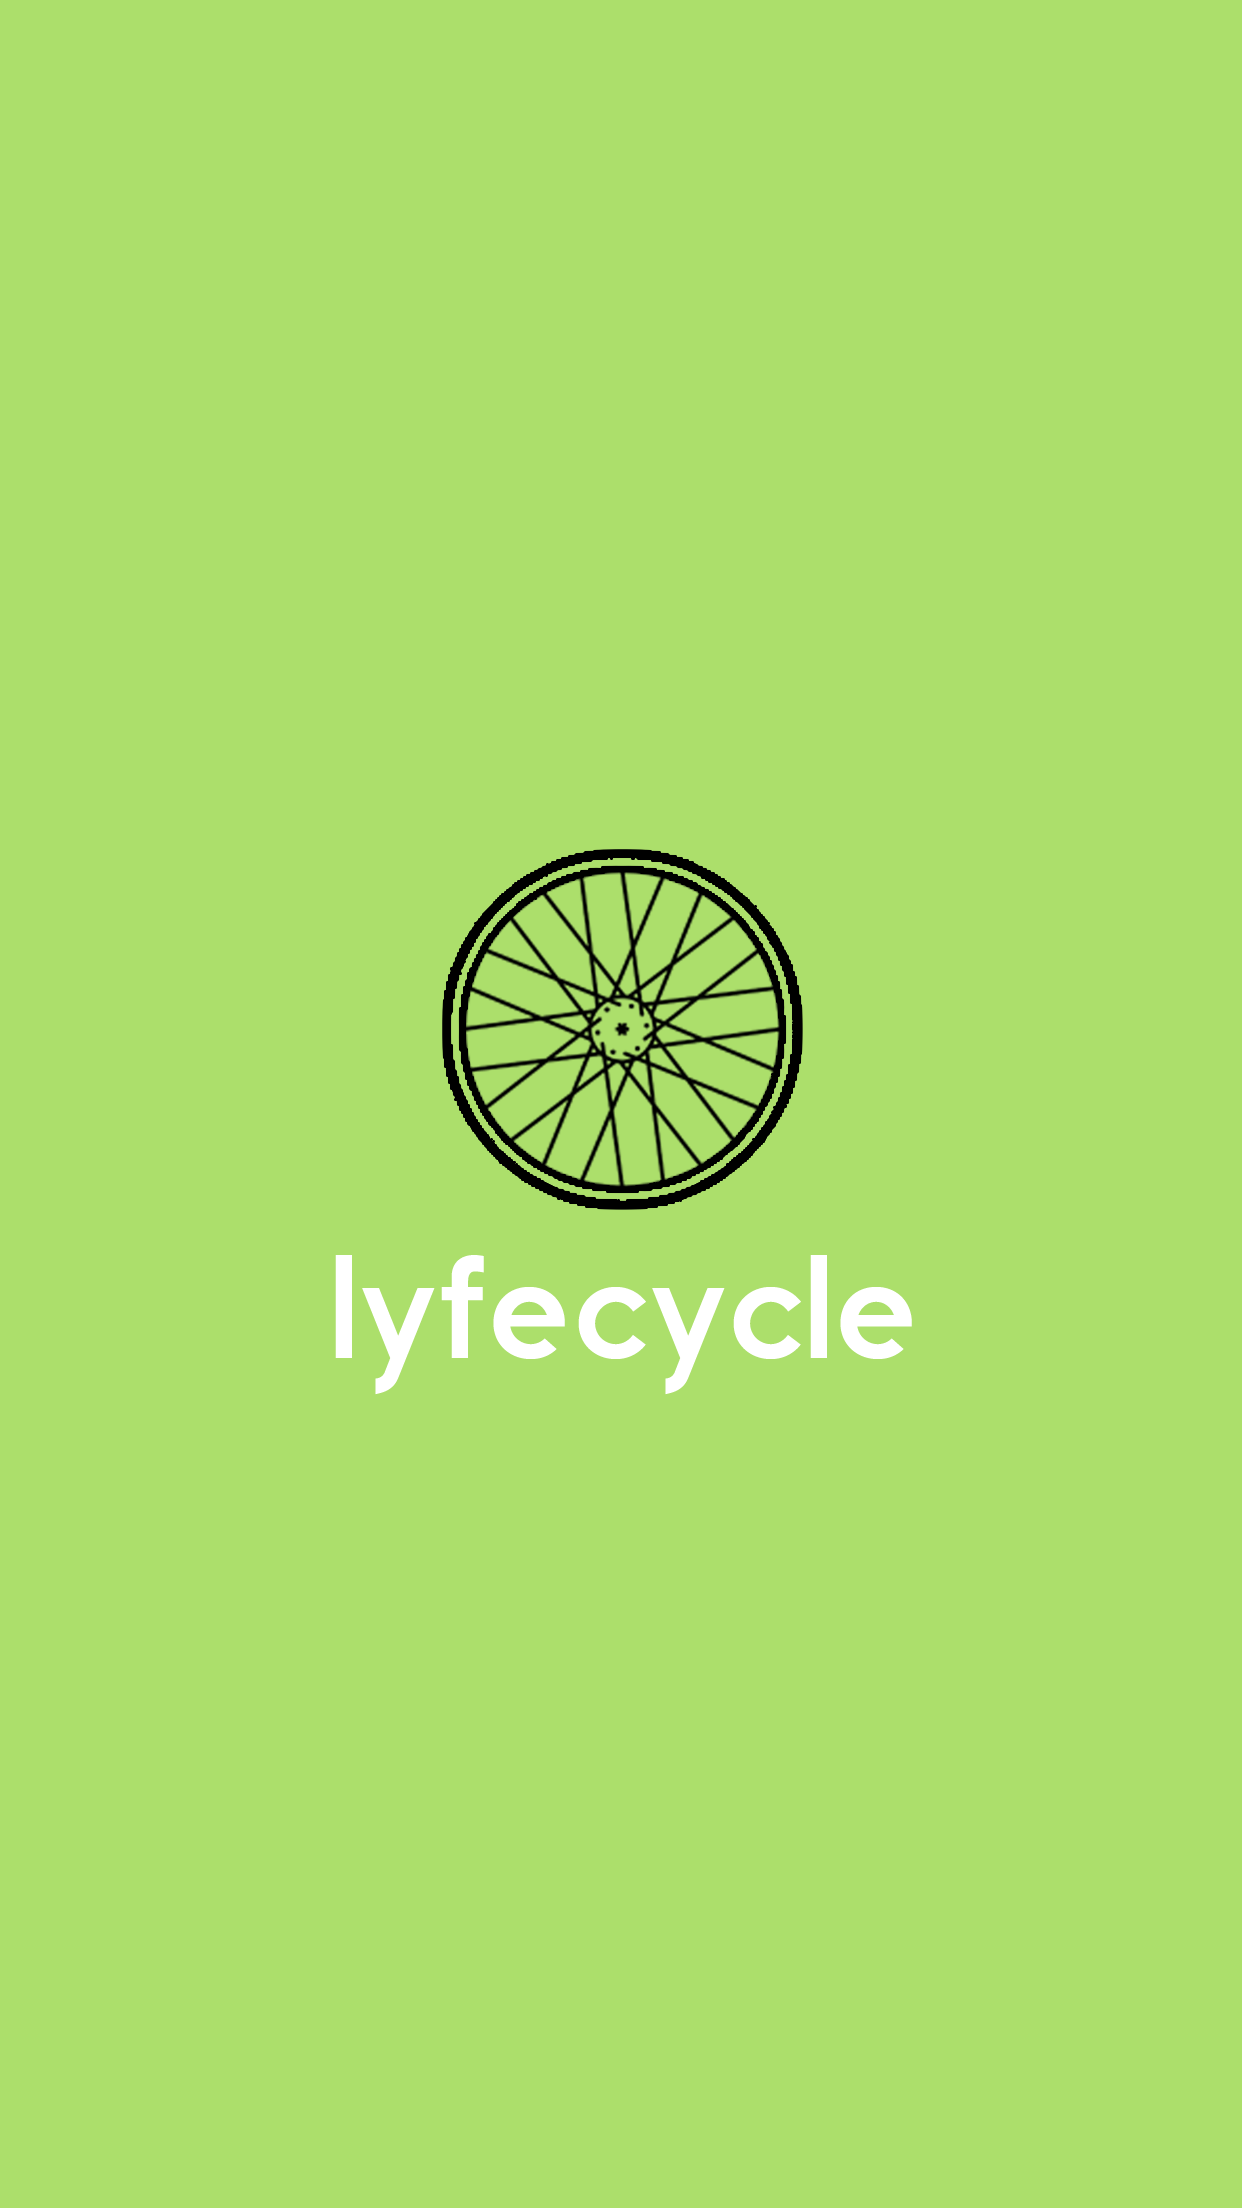
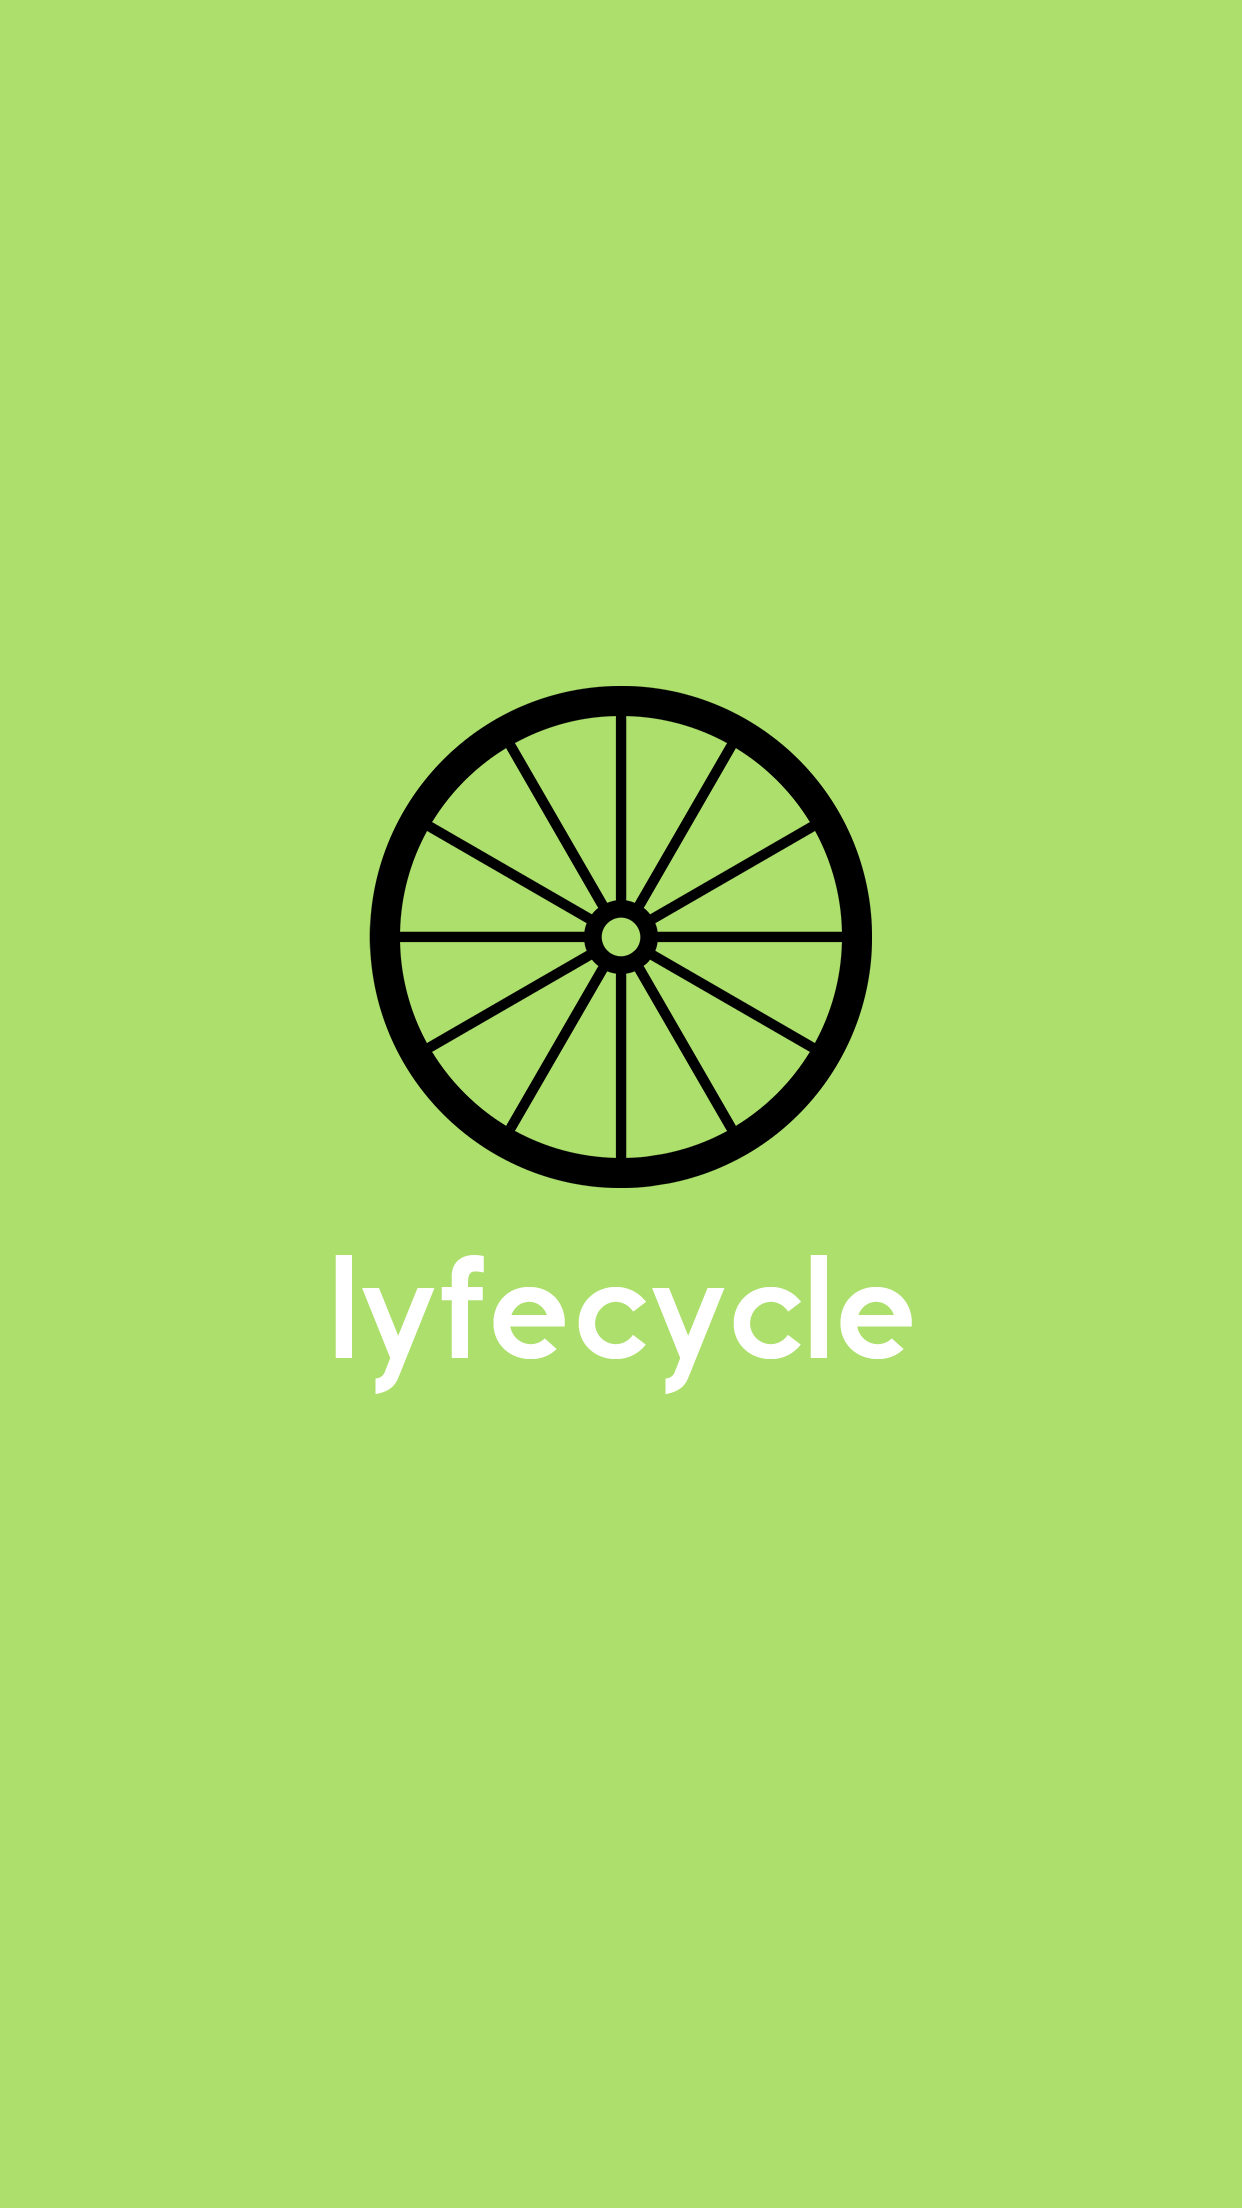
Updated splash screens and appicon

Changed region(s): [[0.2754, 0.3125, 0.7037, 0.5625]]

diff --git a/Resources/clients/UserClient.js b/Resources/clients/UserClient.js
@@ -9,7 +9,7 @@ UserClient.prototype.getAllUsers = function(callback){
 			onload: function(e){
 				callback(JSON.parse(this.responseText));
 			},
-			onerror: function(e){alert("Couldn't connect!!");}
+			onerror: function(e){alert("Request to the LyfeCycle server timed out. Please exit the app and try again.");}
 	});
 
 	client.open("GET", this.url + 'users');
@@ -24,7 +24,7 @@ UserClient.prototype.getCurrentUser = function(callback){
 			onload: function(e){
 				callback(JSON.parse(this.responseText)[0]);
 			},
-			onerror: function(e){alert("Couldn't connect!!");}
+			onerror: function(e){alert("Request to the LyfeCycle server timed out. Please exit the app and try again");}
 	});
 
 	client.open("GET", "http://lyfecycle-api.herokuapp.com/users/find?facebookId=" + self.fbId);
